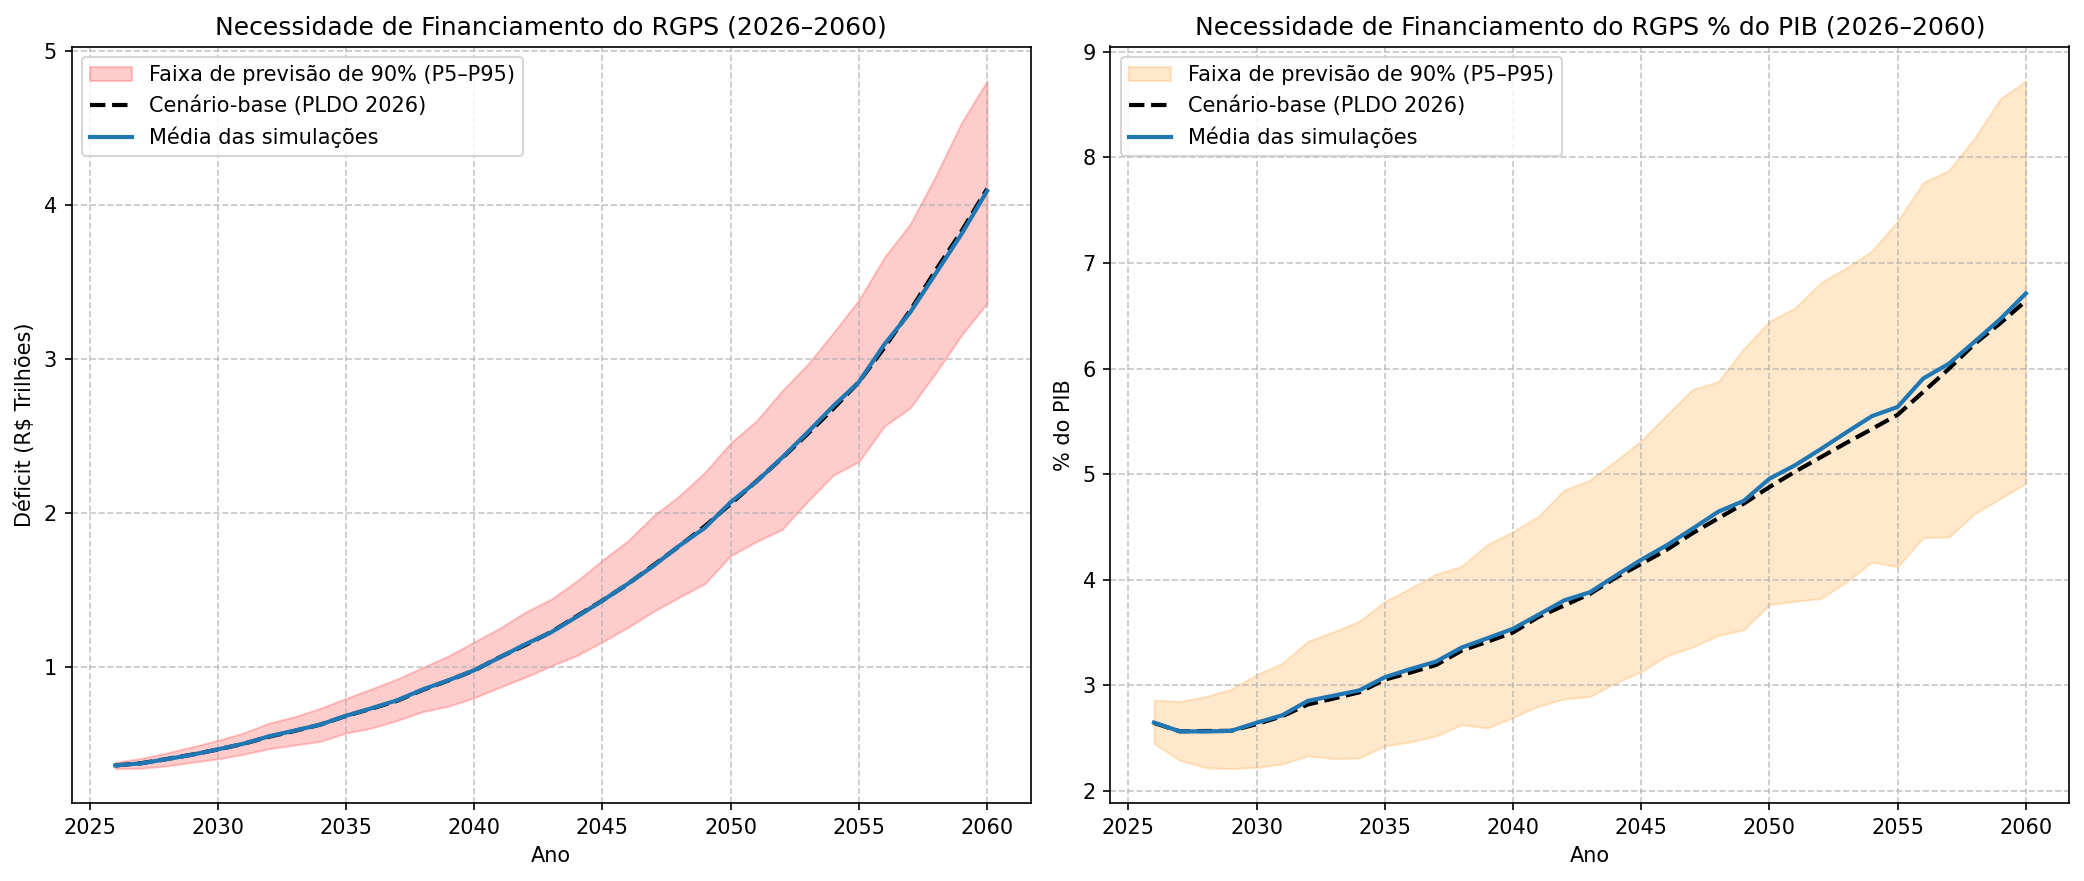
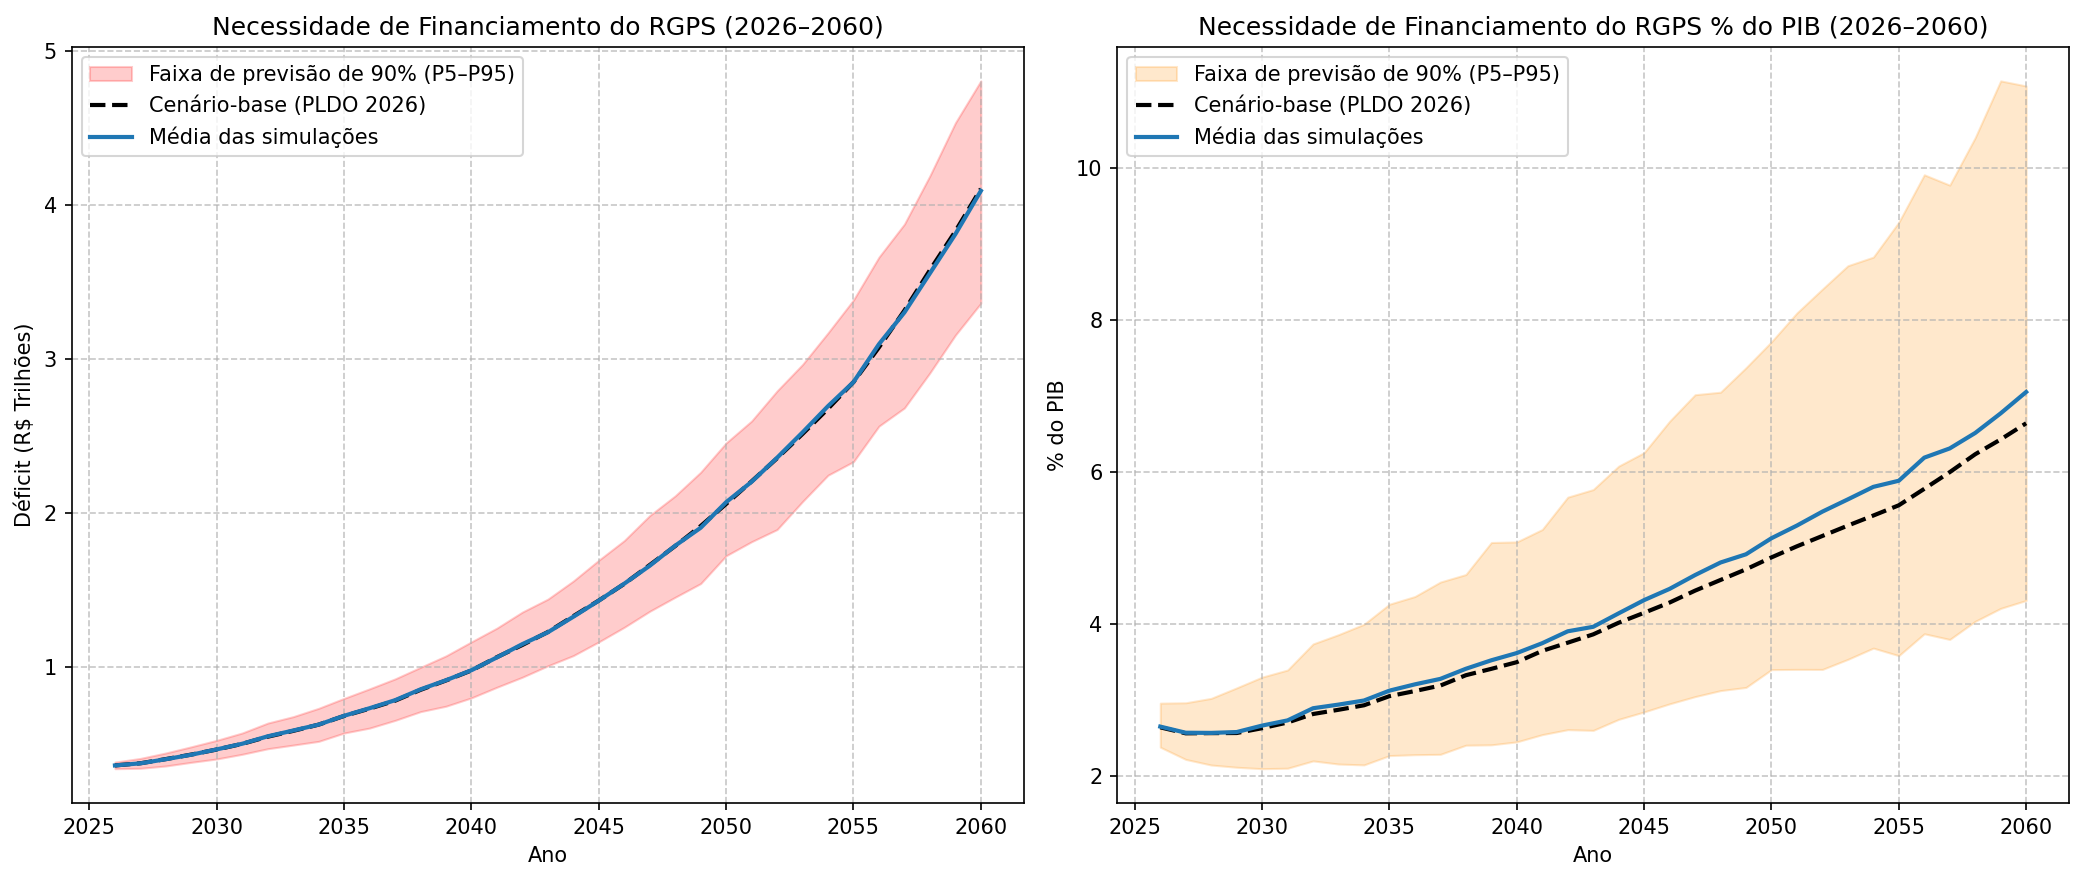
funcao decomposicao_incerteza

diff --git a/decomposicao_incerteza.py b/decomposicao_incerteza.py
@@ -1,0 +1,125 @@
+import pandas as pd
+import numpy as np
+import matplotlib
+matplotlib.use('Agg')
+import matplotlib.pyplot as plt
+
+# ---------------------------------------------------------------------------
+# DECOMPOSIÇÃO DA INCERTEZA (One-At-a-Time / OAT)
+#
+# Objetivo: identificar quanto da largura do IC 90% da "Necessidade de
+# Financiamento % PIB" em 2060 vem de cada fonte de choque (R, D, PIB),
+# isoladamente.
+#
+# Método: roda o MESMO Monte Carlo do modelo principal, mas em 4 variantes:
+#   1) Só eps_R  ativo (eps_D = eps_PIB = 0)
+#   2) Só eps_D  ativo (eps_R = eps_PIB = 0)
+#   3) Só eps_PIB ativo (eps_R = eps_D = 0)
+#   4) TODOS ativos e correlacionados (Cholesky) -> cenário completo (baseline)
+#
+# Comparando a largura do IC 90% de cada variante isolada com a do cenário
+# completo, mede-se a contribuição relativa de cada fonte para a incerteza
+# total. É uma análise de sensibilidade "um fator de cada vez", mais simples
+# que uma decomposição de variância de Sobol, mas suficiente para apontar
+# qual variável domina o risco no TCC.
+# ---------------------------------------------------------------------------
+
+df_rgps = pd.read_excel('tabela_CCE002.xlsx', sheet_name='Projeções')
+
+ano_calc_inicio = 2026
+ano_calc_fim = 2060
+ano_base = 2025
+ano_alvo = 2060   # ano em que a decomposição será reportada
+
+df_base = df_rgps[(df_rgps['Exercício'] >= ano_base) & (df_rgps['Exercício'] <= ano_calc_fim)].copy()
+df_base = df_base.set_index('Exercício')
+
+sigma_frac_R   = 0.010
+sigma_frac_D   = 0.008
+sigma_frac_PIB = 0.0035
+
+corr = np.array([
+    [ 1.0, -0.2,  0.6],
+    [-0.2,  1.0, -0.3],
+    [ 0.6, -0.3,  1.0],
+])
+sigma = np.array([sigma_frac_R, sigma_frac_D, sigma_frac_PIB])
+Sigma_base = np.outer(sigma, sigma) * corr
+L_base = np.linalg.cholesky(Sigma_base)
+
+num_simulacoes = 1000
+
+def rodar_simulacao(ativa_R, ativa_D, ativa_PIB, correlacionado, seed):
+    """Roda o Monte Carlo com subconjuntos de choques ativos/desativados."""
+    rng = np.random.default_rng(seed)
+    resultados = []
+    for simulacao in range(num_simulacoes):
+        for ano in range(ano_calc_inicio, ano_calc_fim + 1):
+            R_pldo   = df_base.loc[ano, 'Receita']
+            D_pldo   = df_base.loc[ano, 'Despesa']
+            PIB_pldo = df_base.loc[ano, 'PIB']
+            horizonte = ano - ano_base
+
+            if correlacionado:
+                z = rng.standard_normal(3)
+                eps_R, eps_D, eps_PIB = np.sqrt(horizonte) * (L_base @ z)
+            else:
+                eps_R   = rng.normal(0, sigma_frac_R   * np.sqrt(horizonte))
+                eps_D   = rng.normal(0, sigma_frac_D   * np.sqrt(horizonte))
+                eps_PIB = rng.normal(0, sigma_frac_PIB * np.sqrt(horizonte))
+
+            if not ativa_R:   eps_R   = 0.0
+            if not ativa_D:   eps_D   = 0.0
+            if not ativa_PIB: eps_PIB = 0.0
+
+            R_sim   = R_pldo   * (1 + eps_R)
+            D_sim   = D_pldo   * (1 + eps_D)
+            PIB_sim = PIB_pldo * (1 + eps_PIB)
+
+            NFin_pct_sim = ((D_sim - R_sim) / PIB_sim) * 100
+
+            if ano == ano_alvo:
+                resultados.append(NFin_pct_sim)
+
+    return np.array(resultados)
+
+# 4 cenários: cada fonte isolada + o cenário completo (correlacionado) como referência
+resultado_R   = rodar_simulacao(True,  False, False, correlacionado=False, seed=1)
+resultado_D   = rodar_simulacao(False, True,  False, correlacionado=False, seed=2)
+resultado_PIB = rodar_simulacao(False, False, True,  correlacionado=False, seed=3)
+resultado_TOT = rodar_simulacao(True,  True,  True,  correlacionado=True,  seed=42)
+
+def largura_ic90(vetor):
+    p5, p95 = np.quantile(vetor, [0.05, 0.95])
+    return p95 - p5, p5, p95
+
+larg_R,   p5_R,   p95_R   = largura_ic90(resultado_R)
+larg_D,   p5_D,   p95_D   = largura_ic90(resultado_D)
+larg_PIB, p5_PIB, p95_PIB = largura_ic90(resultado_PIB)
+larg_TOT, p5_TOT, p95_TOT = largura_ic90(resultado_TOT)
+
+print(f"Ano de referência: {ano_alvo}\n")
+print(f"{'Fonte':<20}{'Largura da faixa P5–P95 (pontos percentuais do PIB) em 2060':<22}{'Largura':<12}{'% da largura total (soma OAT)'}")
+soma_larguras = larg_R + larg_D + larg_PIB
+for nome, larg, p5, p95 in [
+    ('Receita (R)',  larg_R,   p5_R,   p95_R),
+    ('Despesa (D)',  larg_D,   p5_D,   p95_D),
+    ('PIB',          larg_PIB, p5_PIB, p95_PIB),
+]:
+    pct = larg / soma_larguras * 100
+    print(f"{nome:<20}[{p5:.2f}, {p95:.2f}]{'':<8}{larg:<12.3f}{pct:.1f}%")
+print(f"\n{'Cenário completo':<20}[{p5_TOT:.2f}, {p95_TOT:.2f}]{'':<8}{larg_TOT:<12.3f}(correlacionado, não é soma direta)")
+
+# Gráfico de barras (tipo "tornado" simplificado)
+fig, ax = plt.subplots(figsize=(8,5))
+fontes = ['PIB', 'Despesa (D)', 'Receita (R)']
+larguras = [larg_PIB, larg_D, larg_R]
+cores = ['darkorange', 'firebrick', 'steelblue']
+ax.barh(fontes, larguras, color=cores)
+for i, v in enumerate(larguras):
+    ax.text(v + 0.02, i, f'{v:.2f} p.p.', va='center')
+ax.set_xlabel('Largura da faixa P5–P95 (pontos percentuais do PIB) em 2060')
+ax.set_title('Decomposição da incerteza por fonte de choque (one-at-a-time)')
+ax.grid(True, axis='x', linestyle='--', alpha=0.6)
+plt.tight_layout()
+plt.savefig('decomposicao_incerteza.png', dpi=150, bbox_inches='tight')

diff --git a/simulacao.py b/simulacao.py
@@ -2,24 +2,8 @@ import pandas as pd
 import numpy as np
 import matplotlib.pyplot as plt
 
-# ---------------------------------------------------------------------------
-# ALTERNATIVA A (com choques correlacionados)
-#
-# O cenário-base (Receita, Despesa, PIB) é lido diretamente da Tabela 5.2 do
-# PLDO 2026. O Monte Carlo gera cenários alternativos em torno dessa
-# projeção oficial, perturbando R, D e PIB simultaneamente com choques
-# CORRELACIONADOS (via decomposição de Cholesky), em vez de choques
-# independentes.
-#
-# Por que correlacionar os choques?
-# Um choque de PIB negativo (recessão) não afeta Receita, Despesa e PIB de
-# forma independente: ele tende a reduzir a massa salarial (Receita cai
-# junto) e a pressionar a Despesa relativamente mais (efeito anticíclico).
-# Choques independentes ignoram essa dinâmica e subestimam o risco de
-# cenários em que tudo piora ao mesmo tempo (cauda do déficit).
-# ---------------------------------------------------------------------------
 
-df_rgps = pd.read_excel('tabela2_CCE002.xlsx', sheet_name='Projeções')
+df_rgps = pd.read_excel('tabela_CCE002.xlsx', sheet_name='Projeções')
 
 ano_calc_inicio = 2026
 ano_calc_fim = 2060
@@ -28,26 +12,10 @@ ano_base = 2025   # ano de referência para contagem do horizonte de incerteza
 df_base = df_rgps[(df_rgps['Exercício'] >= ano_base) & (df_rgps['Exercício'] <= ano_calc_fim)].copy()
 df_base = df_base.set_index('Exercício')
 
-# ---------------------------------------------------------------------------
-# Hipóteses do Monte Carlo (perturbações em torno do cenário oficial)
-#
-# ATENÇÃO PARA O TCC: estes desvios-padrão são HIPÓTESES DO AUTOR, e não uma
-# incerteza estatística estimada oficialmente pelo PLDO/SPE. O documento não
-# publica intervalo de confiança para sua própria projeção. No texto do
-# trabalho, este intervalo deve ser descrito como "análise de sensibilidade
-# sob hipóteses do autor sobre a variabilidade das premissas macroeconômicas",
-# nunca como "incerteza oficial do governo".
-#
-# sigma_frac_X é o desvio-padrão do choque relativo (%) de 1 ano de horizonte.
-# A incerteza acumulada em t anos à frente escala com sqrt(t) — mesma lógica
-# usada em "fan charts" de projeções macroeconômicas (ex.: relatórios de
-# inflação de bancos centrais): quanto mais distante no tempo, maior a
-# incerteza acumulada.
-# ---------------------------------------------------------------------------
 
 sigma_frac_R   = 0.010   # 1,0% ao ano de incerteza na Receita
 sigma_frac_D   = 0.008   # 0,8% ao ano de incerteza na Despesa (mais rígida/vegetativa)
-sigma_frac_PIB = 0.015   # 1,5% ao ano de incerteza no PIB (mais volátil)
+sigma_frac_PIB = 0.035  # 1,5% ao ano de incerteza no PIB (mais volátil)
 
 # Matriz de correlação entre os choques (ordem: R, D, PIB)
 #   R x PIB   = +0,6  -> Receita acompanha o ciclo do PIB (massa salarial)
